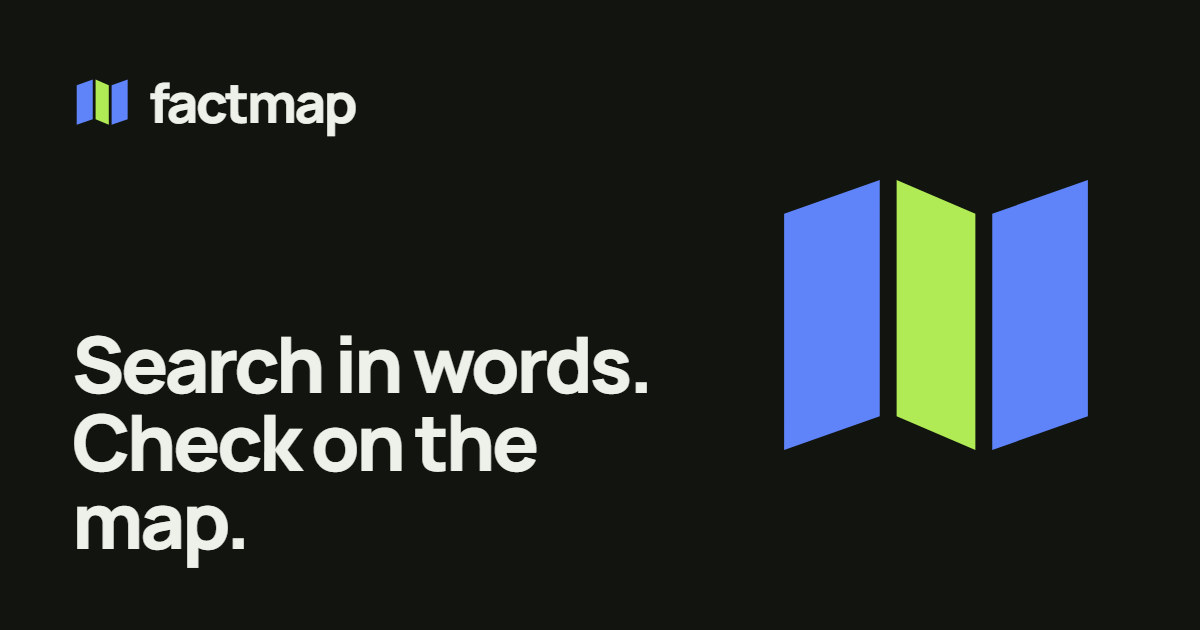
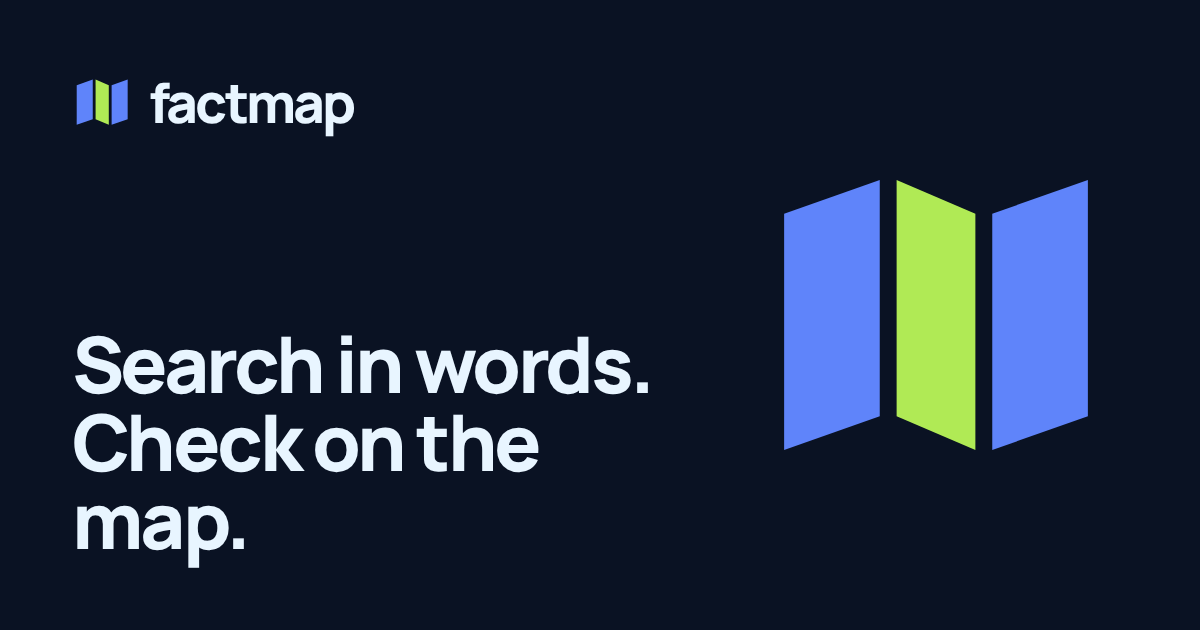
feat(frontend): apply neon design tokens

diff --git a/frontend/src/shared/styles/tokens/semantic.css b/frontend/src/shared/styles/tokens/semantic.css
@@ -2,52 +2,52 @@
 :root[data-theme="light"] {
   color-scheme: light;
 
-  --surface-base: var(--neutral-50);
-  --surface-raised: var(--neutral-0);
-  --surface-raised-hover: var(--neutral-25);
-  --surface-sunken: var(--neutral-100);
-  --surface-overlay: var(--neutral-0);
-  --surface-inverse: var(--neutral-950);
-  --surface-selected: var(--cobalt-50);
+  --surface-base: var(--frost-50);
+  --surface-raised: var(--frost-0);
+  --surface-raised-hover: var(--frost-25);
+  --surface-sunken: var(--frost-100);
+  --surface-overlay: var(--frost-0);
+  --surface-inverse: var(--night-950);
+  --surface-selected: var(--cyan-50);
   --surface-highlight: var(--lime-200);
-  --surface-skeleton: var(--neutral-100);
-  --surface-scrim: color-mix(in oklab, var(--neutral-950) 42%, transparent);
-  --surface-glass: color-mix(in oklab, var(--neutral-0) 70%, transparent);
-  --text-primary: var(--neutral-950);
-  --text-secondary: var(--neutral-700);
-  --text-muted: var(--neutral-600);
-  --text-disabled: var(--neutral-400);
-  --text-accent: var(--cobalt-600);
-  --text-link: var(--cobalt-600);
+  --surface-skeleton: var(--frost-100);
+  --surface-scrim: color-mix(in oklab, var(--night-950) 42%, transparent);
+  --surface-glass: color-mix(in oklab, var(--frost-0) 70%, transparent);
+  --text-primary: var(--night-950);
+  --text-secondary: var(--night-650);
+  --text-muted: var(--night-550);
+  --text-disabled: var(--night-400);
+  --text-accent: var(--cyan-700);
+  --text-link: var(--cyan-700);
   --text-danger: var(--red-700);
   --text-success: var(--green-700);
   --text-warning: var(--amber-700);
   --text-conflict: var(--violet-700);
-  --text-on-inverse: var(--neutral-25);
-  --text-on-highlight: var(--neutral-950);
-  --text-on-fact: var(--neutral-950);
-  --action-primary-text: var(--neutral-0);
-  --action-primary: var(--cobalt-600);
-  --action-primary-hover: var(--cobalt-700);
-  --action-primary-press: var(--cobalt-800);
-  --action-secondary: var(--cobalt-50);
-  --action-secondary-hover: var(--cobalt-100);
-  --action-secondary-press: var(--cobalt-200);
-  --action-secondary-text: var(--cobalt-700);
+  --text-on-inverse: var(--night-50);
+  --text-on-highlight: var(--night-950);
+  --text-on-fact: var(--night-950);
+  --action-primary-text: var(--frost-0);
+  --action-primary: var(--cyan-700);
+  --action-primary-hover: var(--cyan-800);
+  --action-primary-press: var(--cyan-900);
+  --action-secondary: var(--cyan-50);
+  --action-secondary-hover: var(--cyan-100);
+  --action-secondary-press: var(--cyan-200);
+  --action-secondary-text: var(--cyan-800);
   --action-fact: var(--lime-400);
   --action-fact-hover: var(--lime-300);
   --action-fact-press: var(--lime-500);
-  --action-ghost-hover: color-mix(in oklab, var(--neutral-950) 6%, transparent);
-  --action-ghost-press: color-mix(in oklab, var(--neutral-950) 10%, transparent);
-  --action-disabled: var(--neutral-100);
+  --action-ghost-hover: color-mix(in oklab, var(--night-950) 6%, transparent);
+  --action-ghost-press: color-mix(in oklab, var(--night-950) 10%, transparent);
+  --action-disabled: var(--frost-100);
   --action-confirm: var(--green-50);
   --action-confirm-hover: var(--green-100);
   --action-reject: var(--red-50);
   --action-reject-hover: var(--red-100);
-  --border-subtle: color-mix(in oklab, var(--neutral-950) 11%, transparent);
-  --border-default: color-mix(in oklab, var(--neutral-950) 18%, transparent);
-  --border-strong: color-mix(in oklab, var(--neutral-950) 32%, transparent);
-  --border-inverse: color-mix(in oklab, var(--neutral-25) 16%, transparent);
+  --border-subtle: color-mix(in oklab, var(--night-950) 11%, transparent);
+  --border-default: color-mix(in oklab, var(--night-950) 18%, transparent);
+  --border-strong: color-mix(in oklab, var(--night-950) 32%, transparent);
+  --border-inverse: color-mix(in oklab, var(--night-50) 16%, transparent);
   --status-success: var(--green-600);
   --status-success-surface: var(--green-50);
   --status-danger: var(--red-600);
@@ -56,14 +56,14 @@
   --status-warning-surface: var(--amber-50);
   --status-conflict: var(--violet-600);
   --status-conflict-surface: var(--violet-50);
-  --status-info: var(--cobalt-600);
-  --status-info-surface: var(--cobalt-50);
-  --status-neutral: var(--neutral-500);
-  --status-neutral-surface: var(--neutral-100);
+  --status-info: var(--cyan-700);
+  --status-info-surface: var(--cyan-50);
+  --status-neutral: var(--night-500);
+  --status-neutral-surface: var(--frost-100);
   --confidence-high: var(--green-600);
   --confidence-mid: var(--amber-500);
   --confidence-low: var(--red-500);
-  --confidence-track: var(--neutral-200);
+  --confidence-track: var(--frost-200);
   --hue-sea: var(--hue-sea-600);
   --hue-sunset: var(--hue-sunset-600);
   --hue-quiet: var(--hue-quiet-600);
@@ -116,62 +116,62 @@
   --mask-on: var(--neutral-0);
   --surface-tint: color-mix(in oklab, currentColor 14%, transparent);
   --surface-wash: color-mix(in oklab, currentColor 12%, var(--surface-raised));
-  --focus-ring: var(--cobalt-600);
-  --shadow-color: color-mix(in oklab, var(--neutral-950) 10%, transparent);
-  --shadow-color-strong: color-mix(in oklab, var(--neutral-950) 18%, transparent);
-  --scrollbar-thumb: color-mix(in oklab, var(--neutral-950) 22%, transparent);
-  --scrollbar-thumb-hover: color-mix(in oklab, var(--neutral-950) 38%, transparent);
+  --focus-ring: var(--cyan-700);
+  --shadow-color: color-mix(in oklab, var(--night-950) 10%, transparent);
+  --shadow-color-strong: color-mix(in oklab, var(--night-950) 18%, transparent);
+  --scrollbar-thumb: color-mix(in oklab, var(--night-950) 22%, transparent);
+  --scrollbar-thumb-hover: color-mix(in oklab, var(--night-950) 38%, transparent);
 }
 
 :root[data-theme="dark"] {
   color-scheme: dark;
 
-  --surface-base: var(--neutral-950);
-  --surface-raised: var(--neutral-900);
-  --surface-raised-hover: var(--neutral-850);
-  --surface-sunken: var(--neutral-1000);
-  --surface-overlay: var(--neutral-850);
-  --surface-inverse: var(--neutral-50);
-  --surface-selected: #18203a;
+  --surface-base: var(--night-950);
+  --surface-raised: var(--night-900);
+  --surface-raised-hover: var(--night-875);
+  --surface-sunken: var(--night-1000);
+  --surface-overlay: var(--night-875);
+  --surface-inverse: var(--night-50);
+  --surface-selected: var(--cyan-950);
   --surface-highlight: #26341a;
-  --surface-skeleton: var(--neutral-850);
-  --surface-scrim: color-mix(in oklab, var(--neutral-1000) 60%, transparent);
-  --surface-glass: color-mix(in oklab, var(--neutral-900) 62%, transparent);
-  --text-primary: #edeef0;
-  --text-secondary: #bcc1b5;
-  --text-muted: #8f9488;
-  --text-disabled: #5c6157;
-  --text-accent: var(--cobalt-300);
-  --text-link: var(--cobalt-300);
+  --surface-skeleton: var(--night-850);
+  --surface-scrim: color-mix(in oklab, var(--night-1000) 60%, transparent);
+  --surface-glass: color-mix(in oklab, var(--night-900) 62%, transparent);
+  --text-primary: var(--night-50);
+  --text-secondary: var(--night-300);
+  --text-muted: var(--night-400);
+  --text-disabled: var(--night-600);
+  --text-accent: var(--cyan-300);
+  --text-link: var(--cyan-300);
   --text-danger: var(--red-300);
   --text-success: var(--green-300);
   --text-warning: var(--amber-300);
   --text-conflict: var(--violet-300);
-  --text-on-inverse: var(--neutral-950);
+  --text-on-inverse: var(--night-950);
   --text-on-highlight: var(--lime-200);
   --text-on-fact: var(--neutral-950);
-  --action-primary-text: var(--neutral-0);
-  --action-primary: var(--cobalt-500);
-  --action-primary-hover: var(--cobalt-600);
-  --action-primary-press: var(--cobalt-700);
-  --action-secondary: #1b2440;
-  --action-secondary-hover: #222d50;
-  --action-secondary-press: #2a3760;
-  --action-secondary-text: var(--cobalt-200);
+  --action-primary-text: var(--night-950);
+  --action-primary: var(--cyan-300);
+  --action-primary-hover: var(--cyan-200);
+  --action-primary-press: var(--cyan-400);
+  --action-secondary: var(--cyan-950);
+  --action-secondary-hover: var(--cyan-900);
+  --action-secondary-press: var(--cyan-800);
+  --action-secondary-text: var(--cyan-200);
   --action-fact: var(--lime-400);
   --action-fact-hover: var(--lime-300);
   --action-fact-press: var(--lime-500);
-  --action-ghost-hover: color-mix(in oklab, #edeef0 7%, transparent);
-  --action-ghost-press: color-mix(in oklab, #edeef0 12%, transparent);
-  --action-disabled: var(--neutral-850);
+  --action-ghost-hover: color-mix(in oklab, var(--night-50) 7%, transparent);
+  --action-ghost-press: color-mix(in oklab, var(--night-50) 12%, transparent);
+  --action-disabled: var(--night-850);
   --action-confirm: #16301f;
   --action-confirm-hover: #1d3d28;
   --action-reject: #3a1b17;
   --action-reject-hover: #4a221d;
-  --border-subtle: color-mix(in oklab, #edeef0 10%, transparent);
-  --border-default: color-mix(in oklab, #edeef0 17%, transparent);
-  --border-strong: color-mix(in oklab, #edeef0 30%, transparent);
-  --border-inverse: color-mix(in oklab, var(--neutral-950) 16%, transparent);
+  --border-subtle: color-mix(in oklab, var(--night-50) 10%, transparent);
+  --border-default: color-mix(in oklab, var(--night-50) 17%, transparent);
+  --border-strong: color-mix(in oklab, var(--night-50) 30%, transparent);
+  --border-inverse: color-mix(in oklab, var(--night-950) 16%, transparent);
   --status-success: var(--green-400);
   --status-success-surface: #16301f;
   --status-danger: var(--red-400);
@@ -180,14 +180,14 @@
   --status-warning-surface: #3a2a10;
   --status-conflict: var(--violet-400);
   --status-conflict-surface: #261d42;
-  --status-info: var(--cobalt-400);
-  --status-info-surface: #18203a;
-  --status-neutral: var(--neutral-500);
-  --status-neutral-surface: var(--neutral-850);
+  --status-info: var(--cyan-400);
+  --status-info-surface: var(--cyan-950);
+  --status-neutral: var(--night-500);
+  --status-neutral-surface: var(--night-850);
   --confidence-high: var(--green-400);
   --confidence-mid: var(--amber-400);
   --confidence-low: var(--red-400);
-  --confidence-track: var(--neutral-800);
+  --confidence-track: var(--night-800);
   --hue-sea: var(--hue-sea-300);
   --hue-sunset: var(--hue-sunset-300);
   --hue-quiet: var(--hue-quiet-300);
@@ -240,9 +240,9 @@
   --mask-on: var(--neutral-0);
   --surface-tint: color-mix(in oklab, currentColor 14%, transparent);
   --surface-wash: color-mix(in oklab, currentColor 12%, var(--surface-raised));
-  --focus-ring: var(--cobalt-300);
+  --focus-ring: var(--cyan-300);
   --shadow-color: color-mix(in oklab, #000000 36%, transparent);
   --shadow-color-strong: color-mix(in oklab, #000000 55%, transparent);
-  --scrollbar-thumb: color-mix(in oklab, #edeef0 20%, transparent);
-  --scrollbar-thumb-hover: color-mix(in oklab, #edeef0 36%, transparent);
+  --scrollbar-thumb: color-mix(in oklab, var(--night-50) 20%, transparent);
+  --scrollbar-thumb-hover: color-mix(in oklab, var(--night-50) 36%, transparent);
 }

diff --git a/frontend/src/shared/styles/tokens/palette.css b/frontend/src/shared/styles/tokens/palette.css
@@ -39,6 +39,48 @@
   --neutral-950: #111214;
   --neutral-1000: #0a0b0c;
 
+  --night-1000: #060c18;
+  --night-950: #0a1223;
+  --night-925: #0d182b;
+  --night-900: #101e32;
+  --night-875: #142540;
+  --night-850: #182b46;
+  --night-800: #1e3552;
+  --night-700: #26374d;
+  --night-650: #3a4d63;
+  --night-600: #426382;
+  --night-550: #4f6378;
+  --night-500: #6a86a0;
+  --night-400: #8ba4b8;
+  --night-300: #abc2d2;
+  --night-200: #c9dae6;
+  --night-100: #dbe7f0;
+  --night-50: #e8f5ff;
+  --frost-0: #ffffff;
+  --frost-25: #f7fafc;
+  --frost-50: #f0f4f8;
+  --frost-100: #e3eaf1;
+  --frost-200: #d2dde7;
+
+  --cyan-50: #e6fbff;
+  --cyan-100: #c9f5fe;
+  --cyan-200: #9cedfd;
+  --cyan-300: #5ce5ff;
+  --cyan-400: #2bcde9;
+  --cyan-500: #10a9c6;
+  --cyan-600: #0b87a0;
+  --cyan-700: #066a81;
+  --cyan-800: #075569;
+  --cyan-900: #0a3f4f;
+  --cyan-950: #0b2836;
+
+  --pink-50: #fdeef7;
+  --pink-200: #f9c8e6;
+  --pink-300: #f6a2d4;
+  --pink-500: #e748b9;
+  --pink-700: #ac287e;
+  --pink-800: #8a1f65;
+
   --green-50: #eaf7ee;
   --green-100: #cfeed9;
   --green-300: #7fd19b;

diff --git a/frontend/DESIGN.md b/frontend/DESIGN.md
@@ -2,6 +2,15 @@
 name: Factmap
 description: Hotel search where every match is a verifiable fact on the map
 colors:
+  night-950: '#0a1223'
+  night-900: '#101e32'
+  night-50: '#e8f5ff'
+  night-300: '#abc2d2'
+  frost-50: '#f0f4f8'
+  cyan-300: '#5ce5ff'
+  cyan-700: '#066a81'
+  pink-300: '#f6a2d4'
+  pink-700: '#ac287e'
   cobalt-600: '#1546db'
   cobalt-500: '#3763ee'
   cobalt-300: '#8eabff'
@@ -79,8 +88,8 @@ spacing:
   '64': 64px
 components:
   button-primary:
-    backgroundColor: '{colors.cobalt-600}'
-    textColor: '{colors.neutral-0}'
+    backgroundColor: '{colors.cyan-300}'
+    textColor: '{colors.night-950}'
     rounded: '{rounded.md}'
     height: 44px
   button-fact:
@@ -109,25 +118,31 @@ This file explains what the tokens mean; when they disagree, the tokens win.
 
 ## Overview
 
-**North star: the folded map.** The mark is a map folded into three panels: two cobalt sides and a
-lime middle. Cobalt is the product (actions, selection, routes); lime is the fact (proof on the map,
-complete matches, the "show on map" action). Everything else stays quiet so that facts and their
-sources read first.
+**North star: the city after sunset.** The interface follows map style No. 5, "Night neon",
+chosen by the user on 2026-10-26: deep navy surfaces, one cyan action colour and pink walking
+routes. The mark keeps its folded map of two cobalt sides and a lime middle; lime still means a
+confirmed fact or a complete match. Everything else stays quiet so that facts and their sources
+read first. The reference is `work/map-styles/05-neon.html`.
 
-- Calm neutral grounds with a faint green cast, one cobalt action colour, one lime fact colour.
+- Navy grounds in dark, cool frost grounds in light; one cyan action colour, one lime fact colour.
 - Manrope for every role, with heavy weights for headings; JetBrains Mono only for values and codes.
 - Flat surfaces separated by tone; hairline rings only on fields, shadows only for floating layers.
 - Honest states: unknown, computing, conflict and missing are visibly different from "no".
 
 ## Colors
 
-- **Cobalt** (`--action-primary`, `--focus-ring`, `--map-route`, `--map-hotel-selected`): primary
-  buttons, the user's chat bubble, the selected hotel ring, walking routes.
+- **Cyan** (`--action-primary`, `--focus-ring`, `--text-accent`, `--status-info`): primary buttons
+  with dark text in dark theme and white text in light theme, the user's chat bubble, focus, links
+  and the selected object. Light theme uses the deeper `cyan-700` with the same meaning.
+- **Pink** (`--map-route`): the walking route and its direction. It never means an error and never
+  replaces a fact or conflict status.
 - **Lime** (`--action-fact`, `--surface-highlight`, `--map-fact`): the fact. Used for complete match
   badges, "Показать на карте", text selection and fact geometry. Never for decoration.
-- **Neutrals**: `--surface-base` page, `--surface-raised` cards and bubbles, `--surface-sunken`
-  tracks and tiles, `--surface-overlay` floating layers.
-- **Status**: success green, danger red, warning amber, conflict violet, info cobalt, neutral grey;
+- **Cobalt**: only the brand mark.
+- **Night and frost neutrals**: `--surface-base` page, `--surface-raised` cards and bubbles,
+  `--surface-sunken` tracks and tiles, `--surface-overlay` floating layers. Dark theme is the main
+  reference; light theme keeps the same roles on cool surfaces with dark text.
+- **Status**: success green, danger red, warning amber, conflict violet, info cyan, neutral grey;
   each has a surface and a text pair and always comes with an icon.
 - **Characteristic hues** (`--hue-*`): sea, sunset, quiet, nightlife, dark, pets, height, walk. They
   colour the icon of a wish in chips, match rows and fact tiles. They carry meaning, so they colour
@@ -153,7 +168,7 @@ Other pages use the page shell with 24px gutters (32px from 75rem) and full widt
 Resting surfaces are flat: `--surface-raised` panels and cards sit on `--surface-base` without a
 ring or shadow, and hover moves to `--surface-raised-hover`. The header and panel edges use a single
 hairline divider. Hairline rings (`--shadow-ring`) stay only on fields (inputs, select, composer),
-where they mark the editable area; the selected hotel keeps the cobalt ring. The Segmented track is a
+where they mark the editable area; the selected hotel keeps one cyan ring. The Segmented track is a
 sunken tone with a raised, unringed indicator. Shadows and glass are reserved for layers that float
 over the map or the page: map controls and overlays use `--shadow-float`, menus and popovers
 `--shadow-float` or `--shadow-overlay`, map pins `--shadow-pin`.
@@ -176,9 +191,9 @@ towards their author.
   the hotel has a photo; there is no placeholder tile in the list.
 - **EmptyState / ErrorState**: a 48px icon in the tone colour without a tile, title, text and an
   action; the panel fades in as one piece.
-- **Chat**: agent bubbles with the mark as avatar, user bubbles in cobalt, result replies with
+- **Chat**: agent bubbles with the mark as avatar, user bubbles in cyan, result replies with
   understood wishes, corrections, unknown terms, pending work and the lime "show on map" action;
-  composer with an auto-growing field and a cobalt send button.
+  composer with an auto-growing field and a cyan send button.
 - **Banner**, **StatusBadge**, **Confidence**, **Select** (custom listbox), **Segmented**,
   **Disclosure**, **EmptyState**, **ErrorState**, **Skeleton**: see the design system sections.
 
@@ -191,7 +206,8 @@ draw along their path. Reduced motion compresses everything to fades.
 
 ## Do's and Don'ts
 
-- Do use lime only for facts and proof; cobalt only for actions and selection.
+- Do use lime only for facts and proof; cyan only for actions and selection; pink only for routes.
+- Do keep glow on roads, routes and the active object; text, photos, tables and forms stay sharp.
 - Do show unknown and computing explicitly; never present missing data as "no".
 - Do keep every string in the dictionaries, RU and EN.
 - Don't use gradients, glass, emoji, em dashes, arrow glyphs or middle-dot separators.
